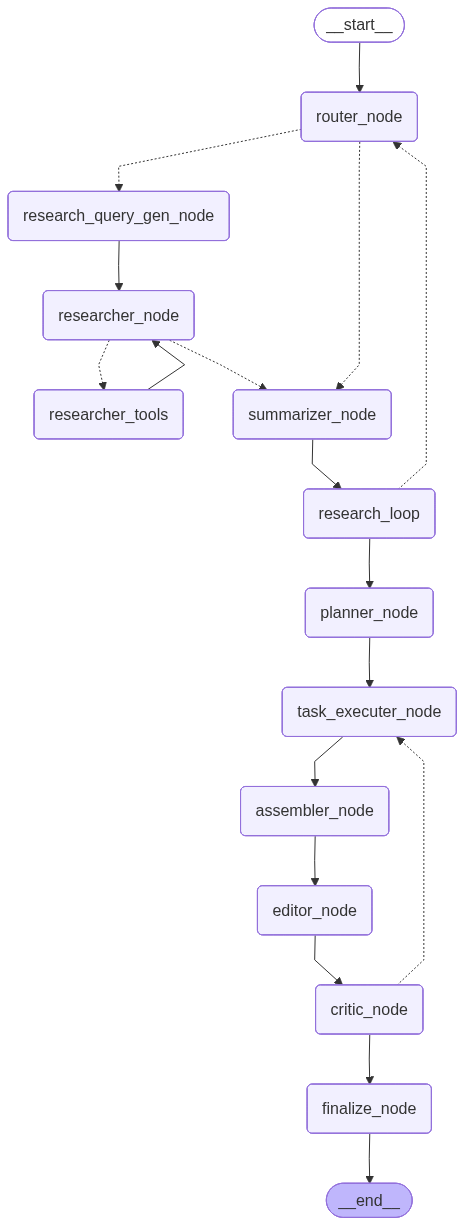
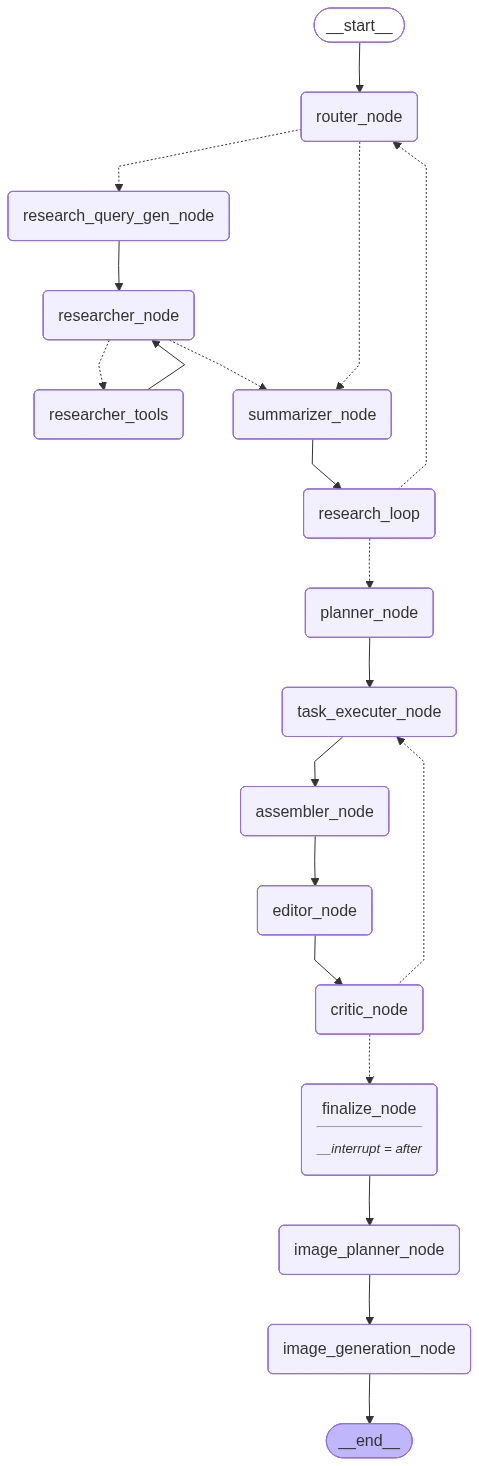
Add initial image generation and planning nodes
- Created image_generation.py with a placeholder function for the image generation node.
- Created image_planner.py with a placeholder function for the image planner node.

diff --git a/backend/agent/workflow.py b/backend/agent/workflow.py
@@ -13,6 +13,8 @@ from agent.nodes.critic import critic_node
 from agent.nodes.finalize import finalize_node
 from agent.nodes.researcher import researcher_node
 from agent.nodes.research_loop import research_loop_node
+from agent.nodes.image_generation import image_generation_node
+from agent.nodes.image_planner import image_planner_node
 
 from langgraph.prebuilt import ToolNode
 from agent.tools import initialize_tools
@@ -40,6 +42,8 @@ async def build_workflow(checkpointer):
     graph.add_node("editor_node", editor_node)
     graph.add_node("critic_node", critic_node)
     graph.add_node("finalize_node", finalize_node)
+    graph.add_node("image_planner_node", image_planner_node)
+    graph.add_node("image_generation_node", image_generation_node)
 
     # 2. Define Routing Logic
     graph.add_edge(START, "router_node")
@@ -104,7 +108,22 @@ async def build_workflow(checkpointer):
     graph.add_edge("task_executer_node", "assembler_node")
     graph.add_edge("assembler_node", "editor_node")
     graph.add_edge("editor_node", "critic_node")
-    graph.add_edge("finalize_node", END)
+    graph.add_edge("finalize_node", "image_planner_node")
+    graph.add_edge("image_planner_node", "image_generation_node")
+    graph.add_edge("image_generation_node", END)
 
     workflow = graph.compile(checkpointer=checkpointer, interrupt_after=['finalize_node'])
     return workflow
+
+# write code to run this file and save the workflow image as workflow.png
+if __name__ == "__main__":
+    import asyncio
+
+    async def main():
+        workflow = await build_workflow(checkpointer=None)
+        png_bytes = workflow.get_graph().draw_mermaid_png()  # Uses Mermaid.ink (online, no deps)
+        with open("workflow.png", "wb") as f:
+            f.write(png_bytes)
+        print("Saved workflow.png")
+
+    asyncio.run(main())

diff --git a/backend/agent/nodes/image_generation.py b/backend/agent/nodes/image_generation.py
@@ -1,0 +1,2 @@
+def image_generation_node():
+    pass

diff --git a/backend/agent/nodes/image_planner.py b/backend/agent/nodes/image_planner.py
@@ -1,0 +1,2 @@
+def image_planner_node():
+    pass
